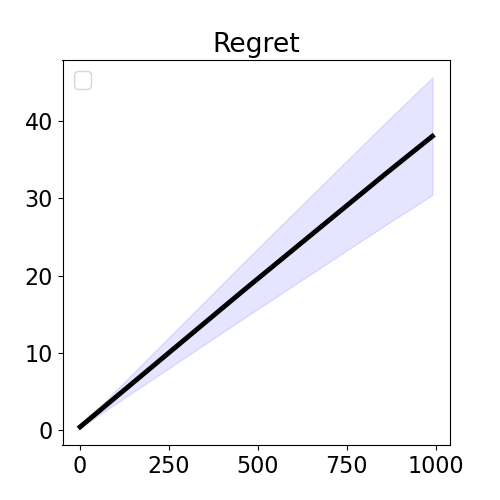
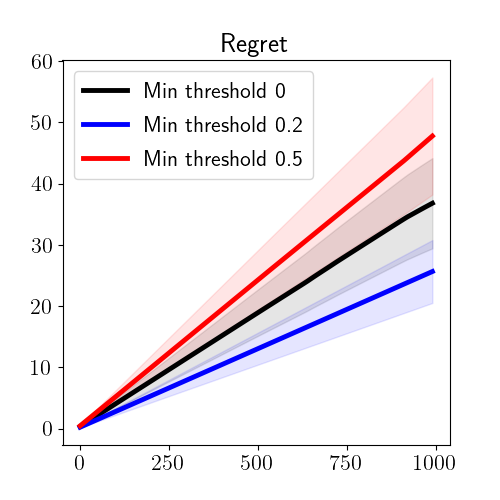
asdlfkm

diff --git a/random_mab_problems.py b/random_mab_problems.py
@@ -29,13 +29,13 @@ from utilities import *
 
 ray.init()
 @ray.remote
-def run_random_mab_sweep_experiment(T, num_arms, do_UCB = False, logging_frequency = 1):
+def run_random_mab_sweep_experiment(T, num_arms, lower_threshold , do_UCB = False, logging_frequency = 1):
 
 
 
 	reward_gaussian_means = np.random.random(num_arms)
 	cost_gaussian_means = np.random.random(num_arms)
-	threshold = np.min(cost_gaussian_means) + (np.max(cost_gaussian_means) - np.min(cost_gaussian_means))*np.random.random()
+	threshold = max(np.min(cost_gaussian_means) + (np.max(cost_gaussian_means) - np.min(cost_gaussian_means))*np.random.random(), lower_threshold)
 
 
 	known_arms_indicator =  np.zeros(num_arms)
@@ -57,7 +57,11 @@ def run_random_mab_sweep_experiment(T, num_arms, do_UCB = False, logging_frequen
 	num_arms = len(reward_gaussian_means)
 	initial_rewards_means = [0 for _ in range(num_arms)]
 	initial_cost_means = [1 for _ in range(num_arms)]
+
+
 	for i in range(len(known_arms_indicator)):
+
+
 	  if known_arms_indicator[i]:
 	    initial_cost_means[i] = cost_gaussian_means[i]
 
@@ -67,6 +71,8 @@ def run_random_mab_sweep_experiment(T, num_arms, do_UCB = False, logging_frequen
 	rewards = []
 	costs = []
 	#logging_frequency = 100
+	local_rewards = []
+	local_costs = []
 
 	eps = 0.000001
 	banditalg = ConstrainedBandit( initial_rewards_means, initial_cost_means, threshold, T, known_arms_indicator = known_arms_indicator, alpha_r = alpha_r, alpha_c = alpha_c, do_UCB = do_UCB)
@@ -78,9 +84,14 @@ def run_random_mab_sweep_experiment(T, num_arms, do_UCB = False, logging_frequen
 	  index = banditalg.get_arm_index()
 	  our_policy_means = banditenv.evaluate_policy(policy)
 
+	  local_rewards.append(our_policy_means[0])
+	  local_costs.append(our_policy_means[1])
+
 	  if t%logging_frequency == 0:
-		  rewards.append(our_policy_means[0])
-		  costs.append(our_policy_means[1])
+		  rewards.append(np.mean(local_rewards))
+		  costs.append(np.mean(local_costs))
+		  local_rewards = []
+		  local_costs = []
 	  
 	  if our_policy_means[1] > threshold:
 	  	raise ValueError("Our policy means {}, threshold {} our policy {} upper cost mean {} upper reward mean {}".format(our_policy_means[1], threshold, policy, banditalg.upper_cost_means, banditalg.upper_rewards_means))
@@ -103,6 +114,10 @@ num_arms = 10
 num_repetitions = 10
 logging_frequency = 10
 
+lower_thresholds = [0, .2, .5]
+colors = ["black", "blue", "red", "green", "violet", "purple", "orange", "yellow"]
+
+
 if int(T/logging_frequency)*logging_frequency < T:
 	raise ValueError("The logging frequency does not divide T.")
 
@@ -119,57 +134,46 @@ if not os.path.isdir("{}/mab/data/RandomT{}".format(path,T)):
 
 
 
-
-rewards_costs = [run_random_mab_sweep_experiment.remote(T, num_arms, do_UCB = False, 
-	logging_frequency = logging_frequency) for _ in range(num_repetitions)]
-rewards_costs = ray.get(rewards_costs)
-#opt_reward = rewards_costs[-1]
-#rewards_costs = (rewards_costs[0], rewards_costs[1])
-
-#opt_rewards = [rewards_costs[-1]]*int(T/logging_frequency)
-opt_rewards = [ rewards_costs[i][-1] for i in range(len(rewards_costs))  ]
-opt_rewards_average = np.average(opt_rewards)
-
-# import IPython
-# IPython.embed()
-# raise ValueError("ASdf")
-mean_cost, std_cost, mean_reward, std_reward, mean_regret, std_regret = get_summary(rewards_costs, num_repetitions, 
-	opt_rewards_average, T, logging_frequency)
-
-
-
-timesteps = np.arange(int(T/logging_frequency))*logging_frequency + 1
-
-
-
 font = {#'family' : 'normal',
         #'weight' : 'bold',
         'size'   : 16}
 
 matplotlib.rc('font', **font)
-
+matplotlib.rcParams['text.usetex'] = True
 plt.figure(figsize=(5,5))
 
+timesteps = np.arange(int(T/logging_frequency))*logging_frequency + 1
 
+for j in range(len(lower_thresholds)):
 
-plt.title("Regret")
-plt.plot(timesteps, mean_regret, linewidth = 3.5, color = "black")
-plt.fill_between(timesteps, mean_regret - .2*std_regret, mean_regret + .2*std_regret, color = "blue", alpha = .1)
-plt.legend(loc="upper left")
-#plt.title("Constrained Bandits")
-plt.savefig("./mab/plots/RandomT{}/constrained_regrets_{}.png".format(T,T))
+	lower_threshold = lower_thresholds[j]
+	rewards_costs = [run_random_mab_sweep_experiment.remote(T, num_arms, lower_threshold, do_UCB = False, 
+		logging_frequency = logging_frequency) for _ in range(num_repetitions)]
+	rewards_costs = ray.get(rewards_costs)
+	#opt_reward = rewards_costs[-1]
+	#rewards_costs = (rewards_costs[0], rewards_costs[1])
 
+	#opt_rewards = [rewards_costs[-1]]*int(T/logging_frequency)
+	opt_rewards = [ rewards_costs[i][-1] for i in range(len(rewards_costs))  ]
+	opt_rewards_average = np.average(opt_rewards)
 
-
-
-
-
-import pickle
-
-pickle.dump((timesteps, mean_regret, std_regret, mean_cost, std_cost, mean_reward, 
-	std_reward, opt_rewards_average, T ), open("./mab/data/RandomT{}/data_mab_{}.p".format(T, T), "wb"))
-
-
+	mean_cost, std_cost, mean_reward, std_reward, mean_regret, std_regret = get_summary(rewards_costs, num_repetitions, 
+		opt_rewards_average, T, logging_frequency)
 
 	
+	plt.plot(timesteps, mean_regret, linewidth = 3.5, color = colors[j], label = 'Min threshold {}'+str(lower_threshold))
+	plt.fill_between(timesteps, mean_regret - .2*std_regret, mean_regret + .2*std_regret, color = colors[j], alpha = .1)
+	#plt.title("Constrained Bandits")
+	
+
+
+	import pickle
+
+	pickle.dump((timesteps, mean_regret, std_regret, mean_cost, std_cost, mean_reward, 
+		std_reward, opt_rewards_average, T , lower_threshold), open("./mab/data/RandomT{}/data_mab_{}_lower_threshold_{}.p".format(T, T, lower_threshold), "wb"))
+
+plt.title("Regret")
+plt.legend(loc="upper left")
+plt.savefig("./mab/plots/RandomT{}/constrained_regrets_{}.png".format(T,T))
+
 

diff --git a/constrained_bandits.py b/constrained_bandits.py
@@ -68,6 +68,7 @@ def run_constrained_bandits(T, reward_gaussian_means, cost_gaussian_means, known
 			raise ValueError("Policy didn't sum to 1. It summed to {} instead.".format(sum(policy)))
 		index = banditalg.get_arm_index()
 		our_policy_means = banditenv.evaluate_policy(policy)
+		
 		local_rewards.append(our_policy_means[0])
 		local_costs.append(our_policy_means[1])
 
@@ -86,36 +87,6 @@ def run_constrained_bandits(T, reward_gaussian_means, cost_gaussian_means, known
 
 	return costs, rewards
 
-
-# def get_summary(rewards_costs, num_repetitions, opt_reward, T, logging_frequency):
-# 	rewards = []
-# 	costs = []
-# 	regrets = []
-# 	for i in range(len(rewards_costs)):
-# 		costs.append(rewards_costs[i][0])
-# 		rewards.append(rewards_costs[i][1])
-# 		regrets.append(np.cumsum(opt_reward - rewards_costs[i][1]))
-
-# 	reg_summary = np.zeros((num_repetitions, int(T/logging_frequency)))
-# 	cost_summary = np.zeros((num_repetitions, int(T/logging_frequency)))
-# 	regret_summary = np.zeros((num_repetitions, int(T/logging_frequency)))
-# 	for i in range(num_repetitions):
-# 		cost_summary[i, :] = costs[i]
-# 		reg_summary[i, :] = rewards[i]
-# 		regret_summary[i, :] = regrets[i]
-
-
-# 	mean_cost = np.mean(cost_summary, axis = 0)
-# 	std_cost = np.std(cost_summary, axis = 0)
-
-# 	mean_reward = np.mean(reg_summary, axis = 0)
-# 	std_reward = np.std(reg_summary, axis = 0)
-
-# 	mean_regret = np.mean(regret_summary, axis = 0)
-# 	std_regret = np.mean(regret_summary, axis = 0)
-
-
-# 	return mean_cost, std_cost, mean_reward, std_reward, mean_regret, std_regret
 
 
 
